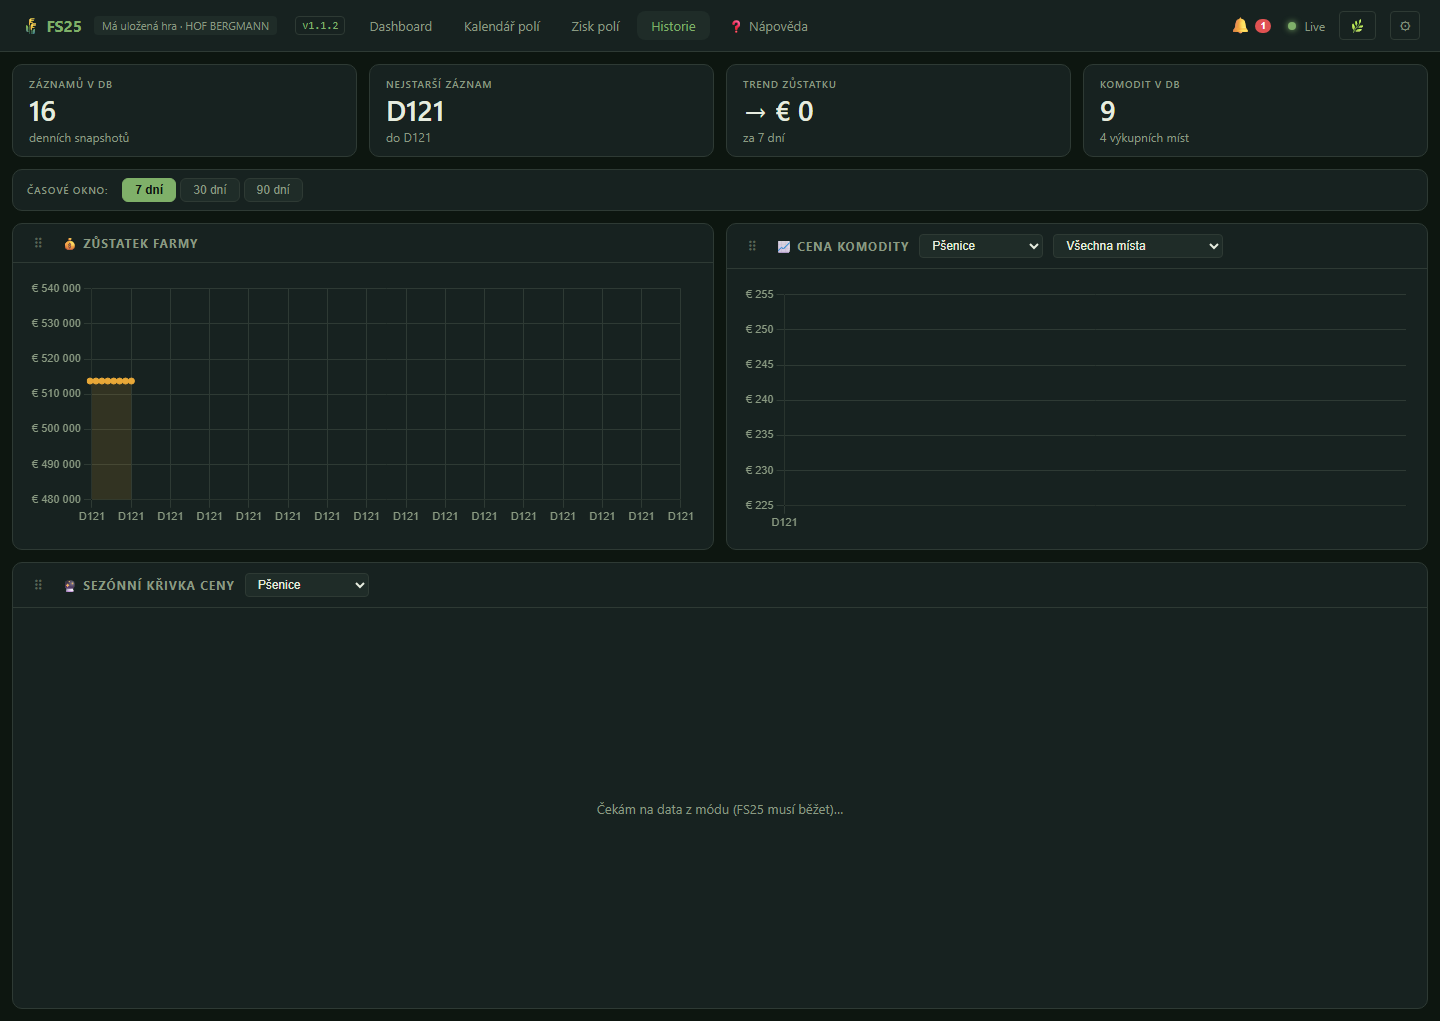
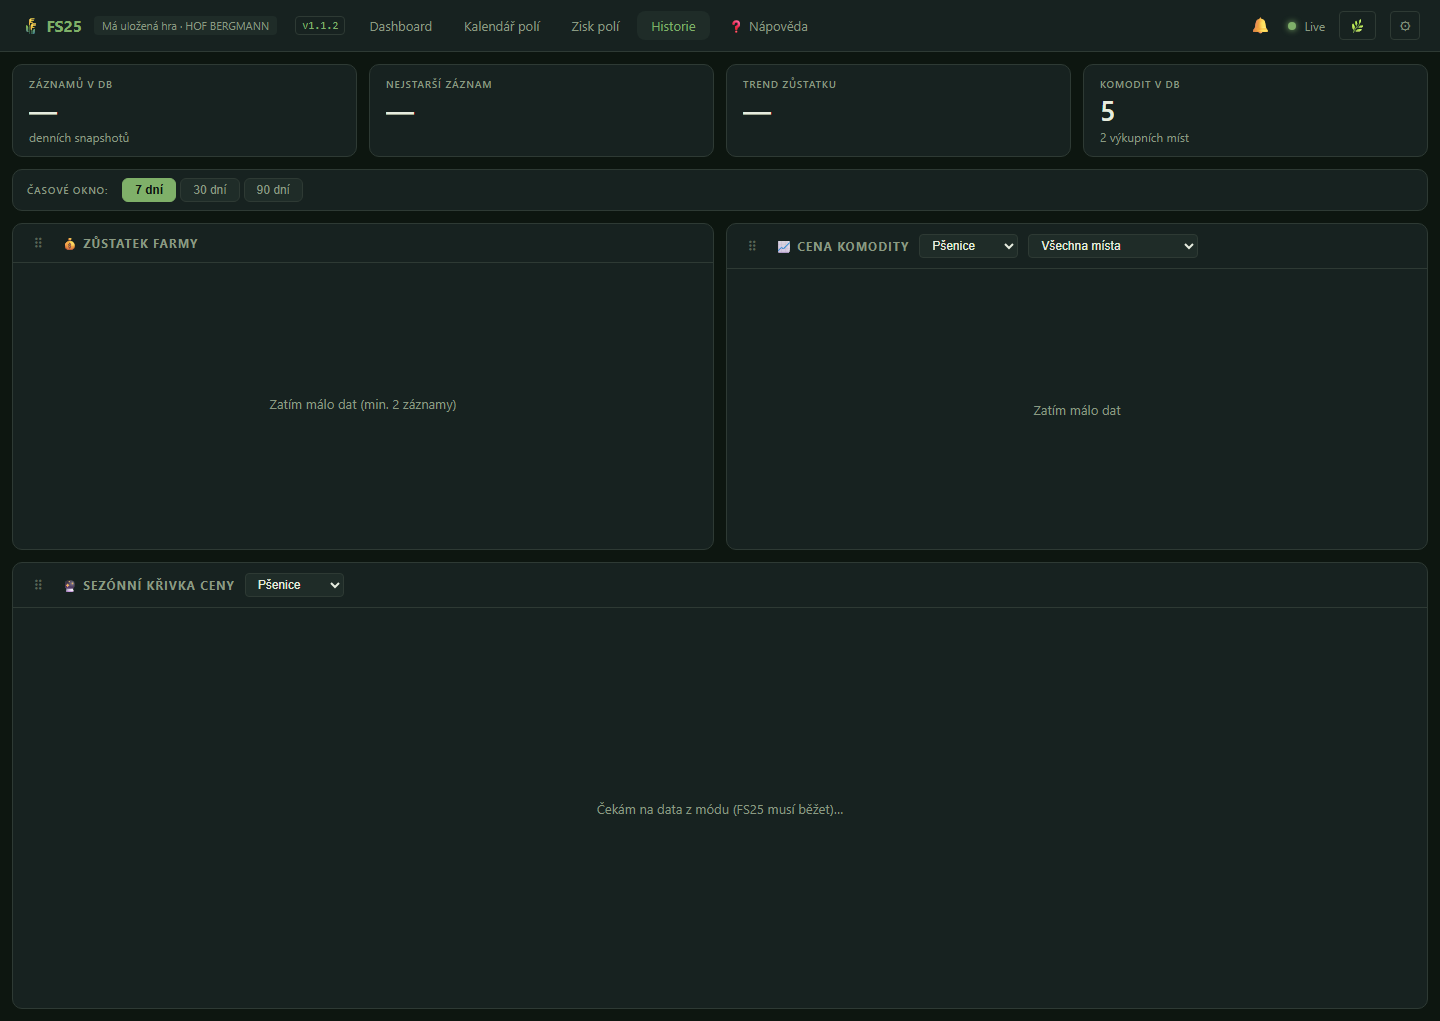
Dashboard: calendar plan-task labels back on narrow bars
Previous release introduced an over-aggressive width gate that hid the
"orba/vápnění/hnojení/válcování/sklizeň" labels on 1-month plan-task bars
(~30 px wide in the default 30-day view). Those labels are short (≤ 8 chars)
and rely on CSS text-overflow: ellipsis when needed.

Width gate (w >= 60) now applies ONLY to sow bars, where labelText is the
crop name (potentially long: "Slunečnice", "Brambory"). All other task
types always render their label.

diff --git a/Server/test/smoke/calendar-verify.spec.js b/Server/test/smoke/calendar-verify.spec.js
@@ -206,8 +206,8 @@ test.describe('Calendar verification', () => {
         expect(style, 'plan task has inline background color').toMatch(/background:\s*[#rgb]/);
     });
 
-    test('REQ-13: plan-task narrow bars (w < 60) hide their label', async ({ page }) => {
-        // Set a very narrow view (10 days) so plan tasks compress
+    test('REQ-13: narrow SOW bars (long crop name) hide label; other tasks keep theirs', async ({ page }) => {
+        // Set a narrow view so bars compress
         await page.locator('#range-days').fill('10');
         await page.waitForTimeout(400);
 
@@ -217,7 +217,7 @@ test.describe('Calendar verification', () => {
 
         const taskBars = await page.locator('.gantt-plan-task').all();
         if (taskBars.length === 0) {
-            test.info().annotations.push({ type: 'note', description: 'no plan tasks to test narrow-label heuristic' });
+            test.info().annotations.push({ type: 'note', description: 'no plan tasks' });
             return;
         }
         for (const b of taskBars) {
@@ -225,10 +225,18 @@ test.describe('Calendar verification', () => {
             const widthMatch = style && style.match(/width:\s*(\d+(?:\.\d+)?)px/);
             if (!widthMatch) continue;
             const w = parseFloat(widthMatch[1]);
+            const cls = await b.getAttribute('class');
+            const isSow = await b.getAttribute('style').then(s => s && /background:\s*(rgb\(250,\s*204,\s*21\)|#facc15)/i.test(s));
             const labelCount = await b.locator('.gantt-plan-task-label').count();
-            if (w < 60) {
+            if (isSow && w < 60) {
+                // Sow with long crop name + narrow bar → label hidden, tooltip carries info
                 expect(labelCount,
-                    `bar with width ${w}px should not show label (only tooltip)`).toBe(0);
+                    `narrow sow bar (${w}px) should hide label`).toBe(0);
+            } else if (!isSow) {
+                // Non-sow tasks (orba/hnojení/válcování/vápnění/sklizeň) keep label
+                // at any width — CSS ellipsis handles overflow
+                expect(labelCount,
+                    `non-sow task bar (${w}px, ${cls}) should keep label`).toBe(1);
             }
         }
     });

diff --git a/Server/public/calendar.html b/Server/public/calendar.html
@@ -863,10 +863,12 @@ function renderGantt(allFields) {
             // "what am I planting?"). Everything else shows the task
             // type (orba / hnojení / válení / vápnění / sklizeň).
             const labelText = (t.type === 'sow' && t.cropName) ? t.cropName : taskLabel;
-            // Drop the inline label on narrow bars — ellipsis can't render
-            // meaningful text below ~3 visible chars, so it's just noise.
-            // The tooltip still carries the full info on hover.
-            const showLabel = labelText && w >= 60;
+            // Sow bars carry the crop name (which can be long — "Slunečnice");
+            // hide the label on narrow sow bars where ellipsis would just be
+            // noise. Other task types (orba/hnojení/válcování/vápnění/sklizeň)
+            // are short — let them render even at 30 px, CSS ellipsis handles
+            // overflow gracefully.
+            const showLabel = labelText && (t.type !== 'sow' || w >= 60);
             const innerText = showLabel
                 ? `<span class="gantt-plan-task-label">${esc(labelText)}</span>`
                 : '';